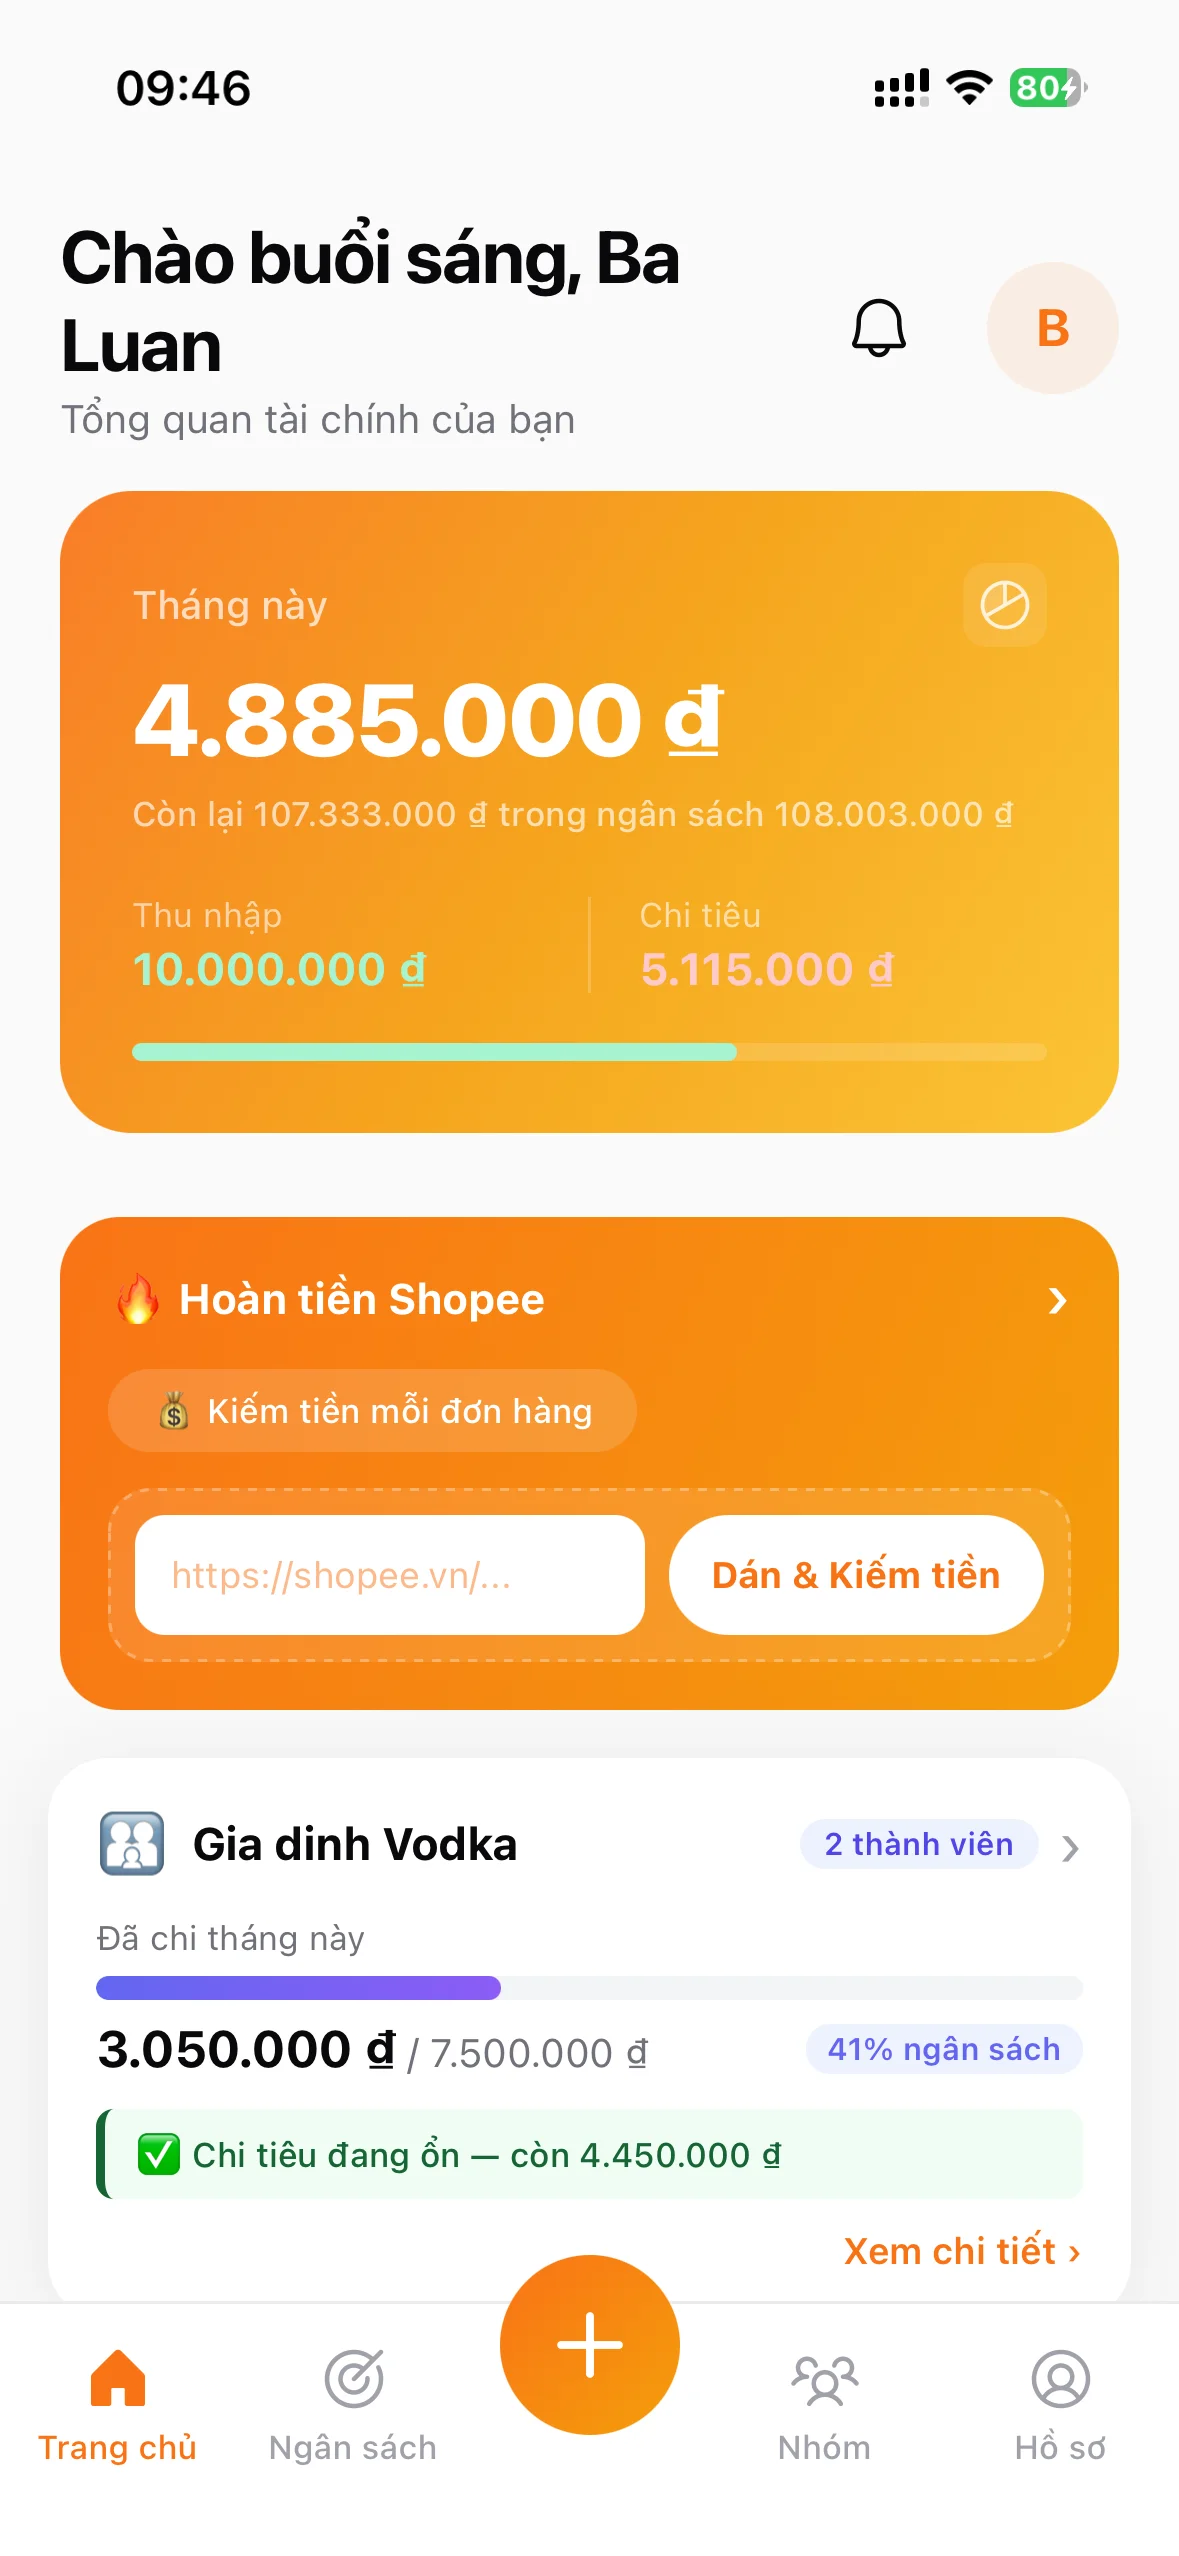
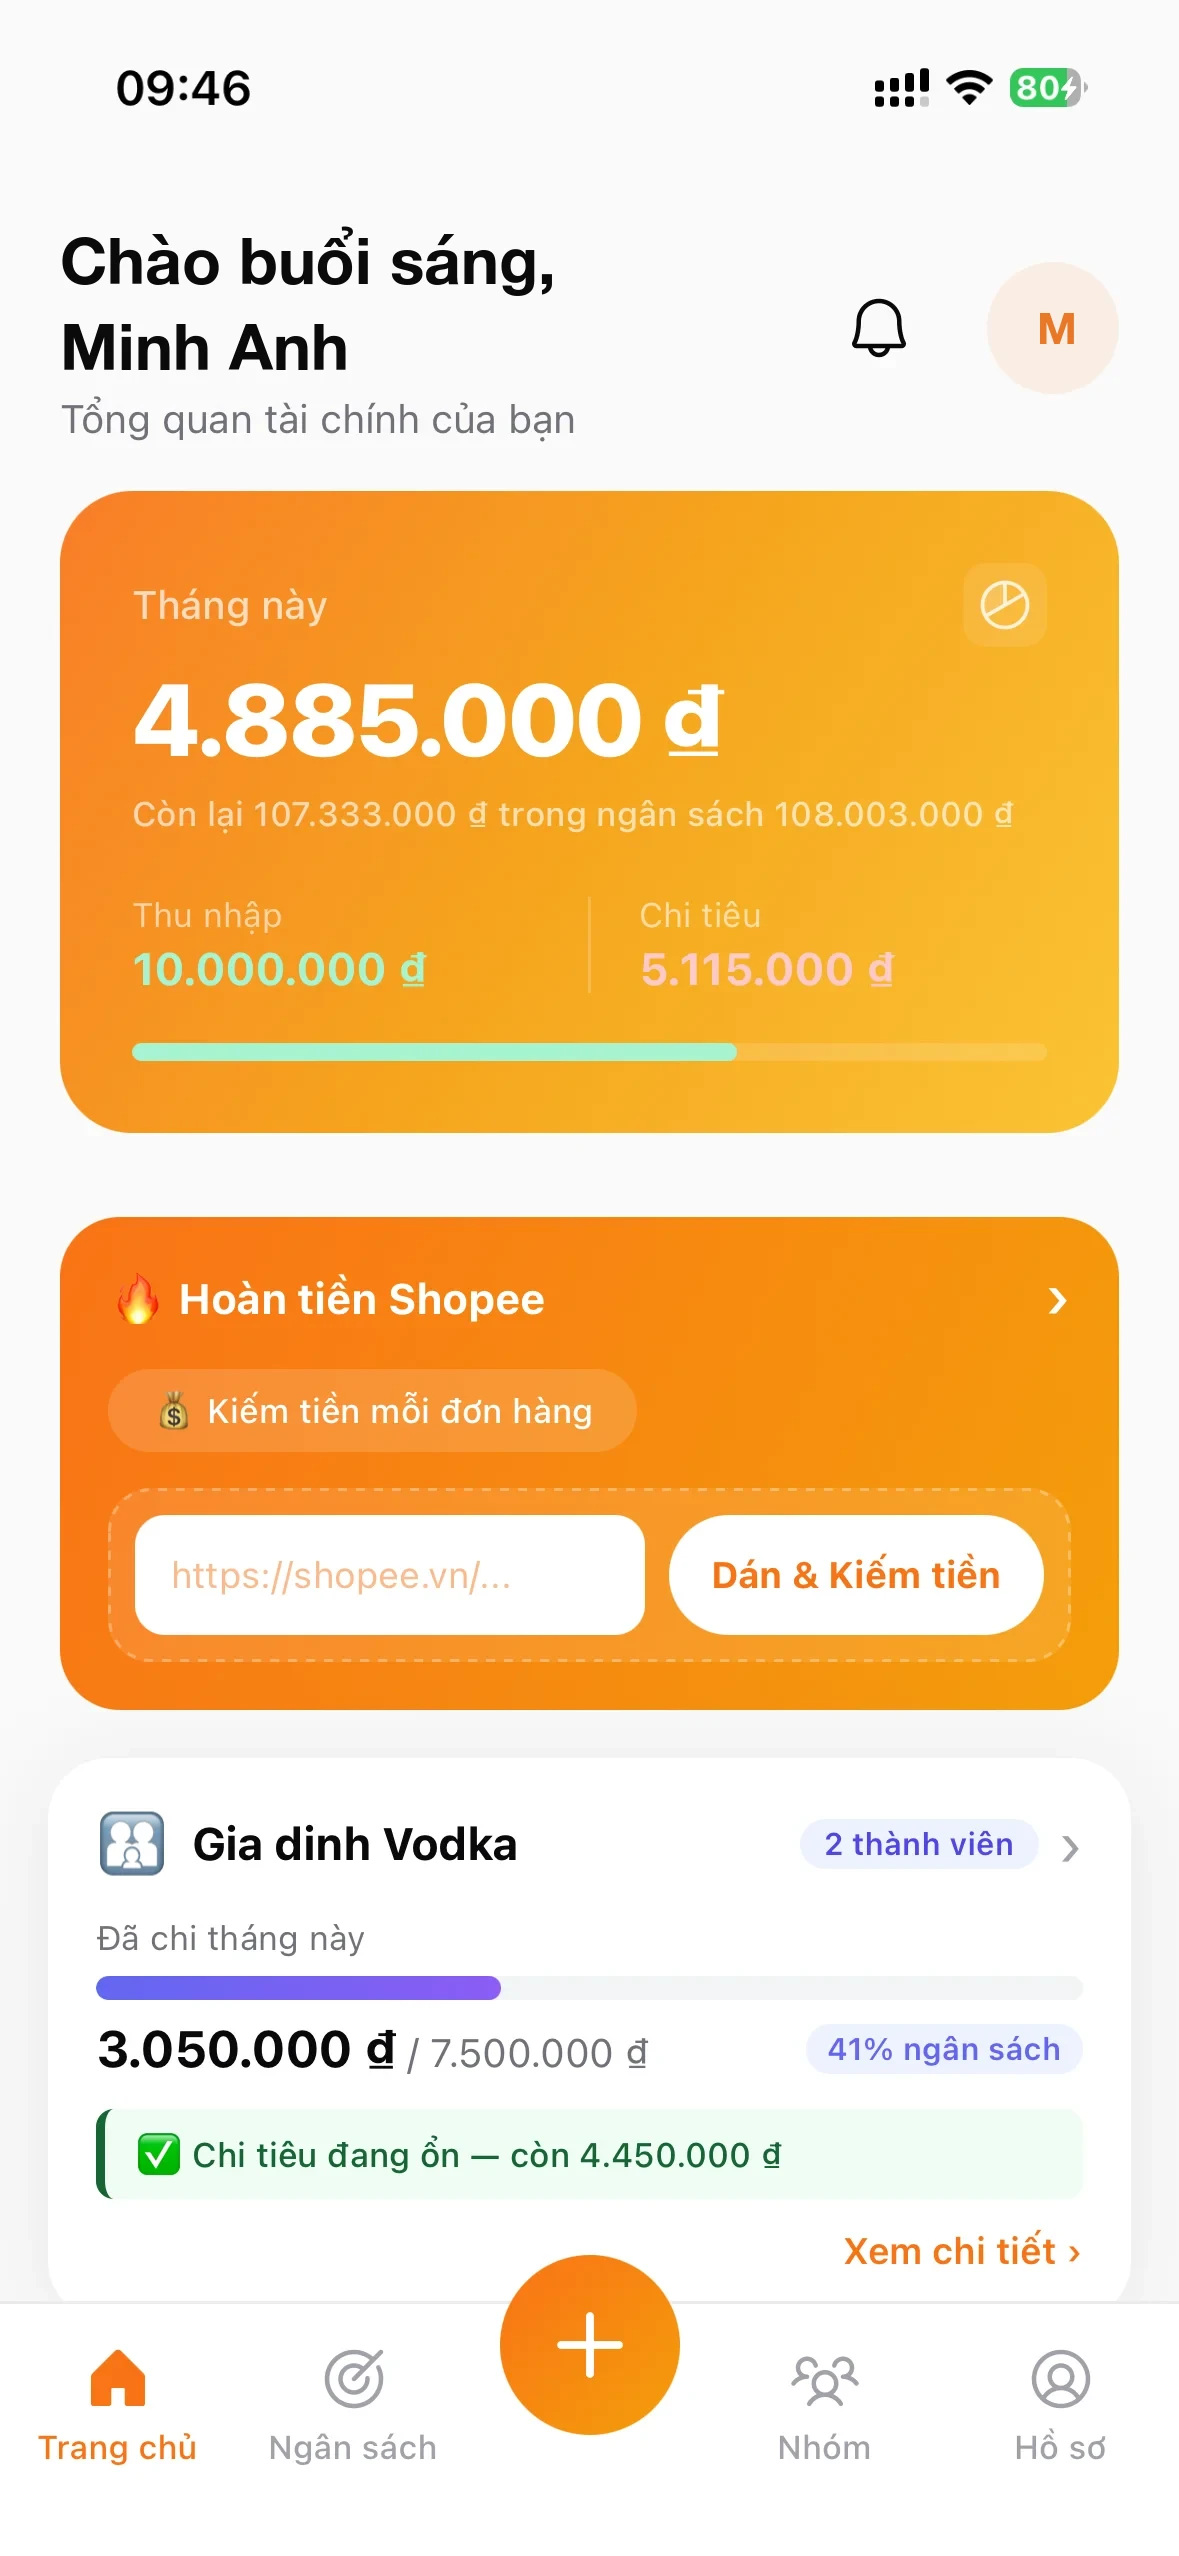
fix(landing): replace the owner's name and photo in public screenshots
The home, download and cashback share images and the cashback guide
screenshot showed a real account name and profile photo. They now show a
sample name, and their URLs carry a new version so caches refetch them.
Unused copies of the old screenshot are removed.

Changed region(s): [[0.0611, 0.0927, 0.5802, 0.1545], [0.8855, 0.1236, 0.916, 0.1545]]

diff --git a/download/index.html b/download/index.html
@@ -12,8 +12,8 @@
   <meta property="og:type" content="website">
   <meta property="og:url" content="https://moni.live/download">
   <meta property="og:site_name" content="Moni">
-  <meta property="og:image" content="https://moni.live/images/og-image.jpg?v=3">
-  <meta property="og:image:secure_url" content="https://moni.live/images/og-image.jpg?v=3">
+  <meta property="og:image" content="https://moni.live/images/og-image.jpg?v=4">
+  <meta property="og:image:secure_url" content="https://moni.live/images/og-image.jpg?v=4">
   <meta property="og:image:width" content="1200">
   <meta property="og:image:height" content="630">
   <meta property="og:image:type" content="image/jpeg">
@@ -23,7 +23,7 @@
   <meta name="twitter:card" content="summary_large_image">
   <meta name="twitter:title" content="Tải Moni - App Theo Dõi Chi Tiêu & Hoàn Tiền Miễn Phí">
   <meta name="twitter:description" content="Theo dõi chi tiêu bằng giọng nói, chia chi phí với bạn bè và kiếm hoàn tiền Shopee.">
-  <meta name="twitter:image" content="https://moni.live/images/og-image.jpg?v=3">
+  <meta name="twitter:image" content="https://moni.live/images/og-image.jpg?v=4">
   <style>
     body { margin: 0; background: #1e3a5f; display: flex; align-items: center; justify-content: center; min-height: 100vh; font-family: sans-serif; color: white; text-align: center; }
     p { opacity: 0.6; font-size: 14px; margin-top: 12px; }

diff --git a/vi/index.html b/vi/index.html
@@ -19,8 +19,8 @@
   <meta property="og:type" content="website">
   <meta property="og:url" content="https://moni.live/vi/">
   <meta property="og:site_name" content="Moni">
-  <meta property="og:image" content="https://moni.live/images/og-image.jpg?v=3">
-  <meta property="og:image:secure_url" content="https://moni.live/images/og-image.jpg?v=3">
+  <meta property="og:image" content="https://moni.live/images/og-image.jpg?v=4">
+  <meta property="og:image:secure_url" content="https://moni.live/images/og-image.jpg?v=4">
   <meta property="og:image:width" content="1200">
   <meta property="og:image:height" content="630">
   <meta property="og:image:type" content="image/jpeg">
@@ -32,7 +32,7 @@
   <meta name="twitter:site" content="@moniliveapp">
   <meta name="twitter:title" content="Moni - Ứng Dụng Quản Lý Tài Chính Cá Nhân, Miễn Phí">
   <meta name="twitter:description" content="Theo dõi chi tiêu, quản lý ngân sách, chia tiền nhóm, theo dõi giá vàng và kiếm hoàn tiền Shopee, TikTok Shop. Miễn phí 100%.">
-  <meta name="twitter:image" content="https://moni.live/images/og-image.jpg?v=3">
+  <meta name="twitter:image" content="https://moni.live/images/og-image.jpg?v=4">
 
   <!-- Hreflang -->
   <link rel="alternate" hreflang="vi" href="https://moni.live/">

diff --git a/index.html b/index.html
@@ -19,8 +19,8 @@
   <meta property="og:type" content="website">
   <meta property="og:url" content="https://moni.live/">
   <meta property="og:site_name" content="Moni">
-  <meta property="og:image" content="https://moni.live/images/og-image.jpg?v=3">
-  <meta property="og:image:secure_url" content="https://moni.live/images/og-image.jpg?v=3">
+  <meta property="og:image" content="https://moni.live/images/og-image.jpg?v=4">
+  <meta property="og:image:secure_url" content="https://moni.live/images/og-image.jpg?v=4">
   <meta property="og:image:width" content="1200">
   <meta property="og:image:height" content="630">
   <meta property="og:image:type" content="image/jpeg">
@@ -32,7 +32,7 @@
   <meta name="twitter:site" content="@moniliveapp">
   <meta name="twitter:title" content="Moni - Ứng Dụng Quản Lý Tài Chính Cá Nhân, Miễn Phí">
   <meta name="twitter:description" content="Theo dõi chi tiêu, quản lý ngân sách, chia tiền nhóm, theo dõi giá vàng và kiếm hoàn tiền Shopee, TikTok Shop. Miễn phí 100%.">
-  <meta name="twitter:image" content="https://moni.live/images/og-image.jpg?v=3">
+  <meta name="twitter:image" content="https://moni.live/images/og-image.jpg?v=4">
 
   <!-- Hreflang -->
   <link rel="alternate" hreflang="vi" href="https://moni.live/">
